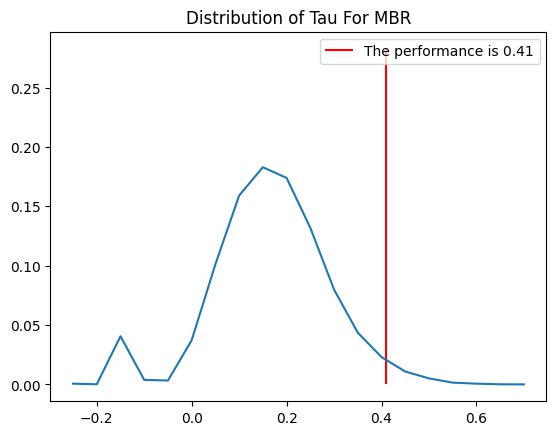
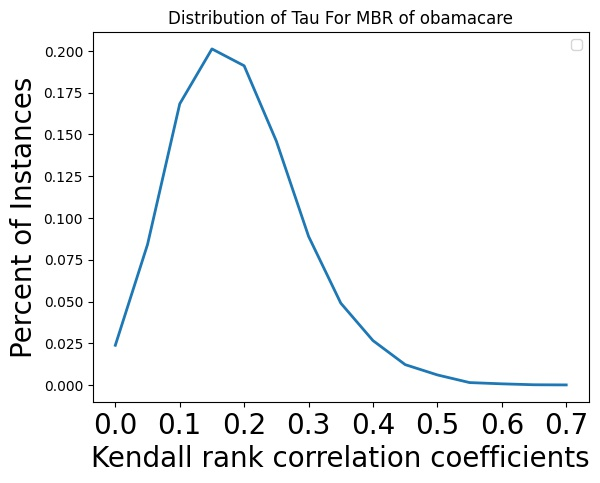
result

diff --git a/program/run_function.py b/program/run_function.py
@@ -340,6 +340,8 @@ def label_score_analysis(
         try:
             model, result, dataset_list, encoded_list = analysis_model.analyze(
                 v, str(k), analysis_args, keep_result=False,data_map=data_map)
+            if model is None:
+                continue
             analysis_result[k] = result
             model_list[k] = model
             for i, encoded_data in enumerate(encoded_list):
@@ -508,6 +510,8 @@ def label_score_analysis(
                 continue
 
         distribution = np.array(distribution) / np.sum(distribution)
+        mean_performance = np.nanmean(performance_average)
+        median_performance = np.nanmedian(performance_average)
 
         start_index = 0
         end_index = 0
@@ -524,11 +528,17 @@ def label_score_analysis(
         sort_result_file = os.path.join(result_path, analysis_args.analysis_encode_method +'_sort_'+ground_truth+'.json')
 
         sentence_result_file = os.path.join(result_path, analysis_args.analysis_encode_method +'_sentence_'+ground_truth+'.json')
-        plt.title('Distribution of Tau For '+ground_truth)
-        plt_file = os.path.join(result_path, analysis_args.analysis_encode_method +'_distribution_'+ground_truth+'.jpg')
-        plt.plot(x_list[start_index:end_index+1], distribution[start_index:end_index+1])
-        plt.vlines(performance,0,np.max(distribution)+0.1, colors='r', label="The performance is "+ str(round(performance,2)))
-        plt.legend()
+        plt.title('Distribution of Tau ', fontsize=20)
+        plt_file = os.path.join(result_path, data_args.dataset+'_'+analysis_args.analysis_encode_method +'_distribution_'+ground_truth+'.jpg')
+        plt.plot(x_list[start_index:end_index+1], distribution[start_index:end_index+1],linewidth=2)
+        plt.xticks(fontsize=20)
+        plt.xlabel("Kendall rank correlation coefficients", fontsize=20)
+        plt.ylabel("Percent of Instances", fontsize=20)
+
+        # plt.vlines(performance,0,np.max(distribution)+0.1, colors='r', label="The model performance is "+ str(round(performance,2)))
+        # plt.vlines(mean_performance,0,np.max(distribution)+0.1, colors='g', label="The mean performance is "+ str(round(mean_performance,2)))
+        # plt.vlines(median_performance,0,np.max(distribution)+0.1, colors='b', label="The median performance is "+ str(round(median_performance,2)))
+
         plt.savefig(plt_file,bbox_inches='tight')
         plt.close()
 

diff --git a/program/analysis.py b/program/analysis.py
@@ -1,6 +1,8 @@
 from curses import keyname
+import imp
 import keyword
 import os
+from random import random
 from matplotlib import pyplot as plt
 import csv
 from dataclasses import dataclass, field
@@ -17,6 +19,7 @@ from grakel.graph_kernels import *
 from copy import deepcopy
 from zss import simple_distance, Node
 from scipy.stats import kendalltau
+import random
 
 from sklearn.cluster import (
     KMeans,
@@ -264,13 +267,26 @@ class CorrelationAnalysis(BaseAnalysis):
         media_distance_order_matrix = np.zeros(shape=(len(data_map.dataset_bias),len(data_map.dataset_bias)),dtype=np.int)
         for i,media_a in enumerate(data_map.dataset_list):
             temp_distance = list()
+            distance_map = list()
             for j,media_b in enumerate(data_map.dataset_list):
-                temp_distance.append(distance_matrix[i][j])
+                # temp_distance.append(distance_matrix[i][j])
+                distance_map.append((j,distance_matrix[i][j]))
+            random.shuffle(distance_map)
+            for item in distance_map:
+                temp_distance.append(item[1])
+            if temp_distance.count(0) > 1:
+                return None
             order_list = np.argsort(temp_distance)
             order_list = order_list.tolist()
-            for j in range(len(data_map.dataset_list)):
-                order = order_list.index(j)
-                media_distance_order_matrix[i][j] = order
+            
+            for order, v in enumerate(order_list):
+                media_distance_order_matrix[i][distance_map[v][0]] = order
+
+            # order_list = np.argsort(temp_distance)
+            # order_list = order_list.tolist()
+            # for j in range(len(data_map.dataset_list)):
+            #     order = distance_map[order_list.index(j)][1]
+            #     media_distance_order_matrix[i][j] = order
         return media_distance_order_matrix
 
 
